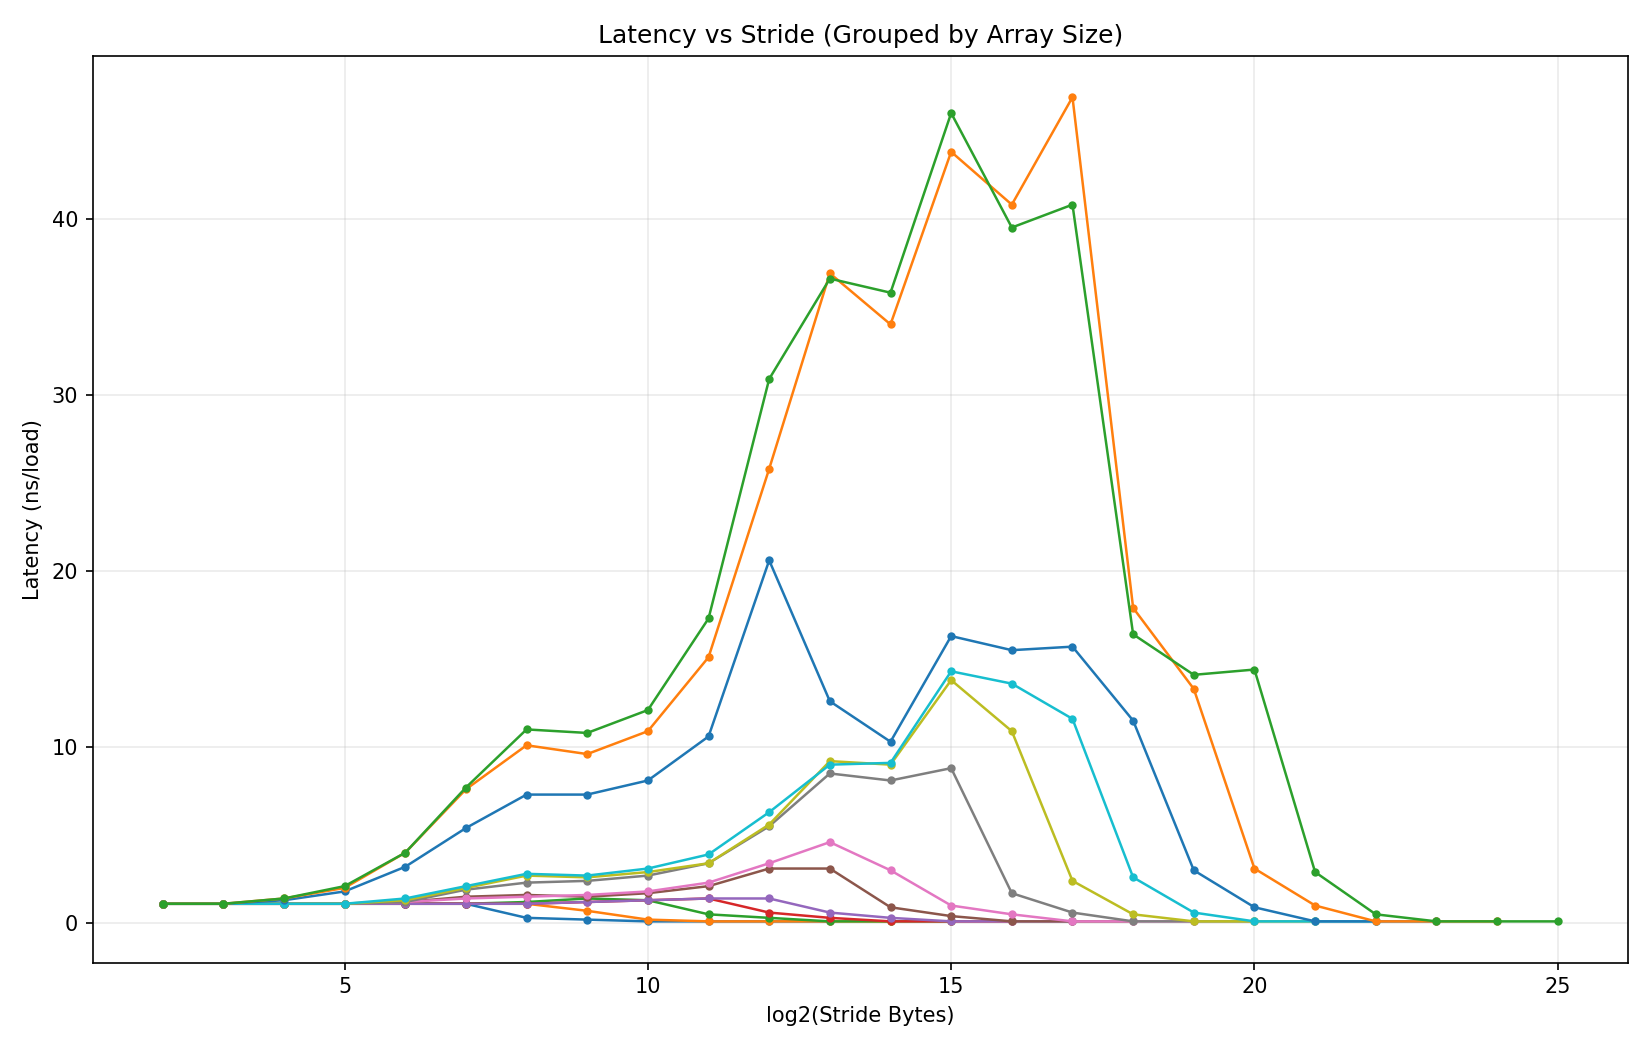
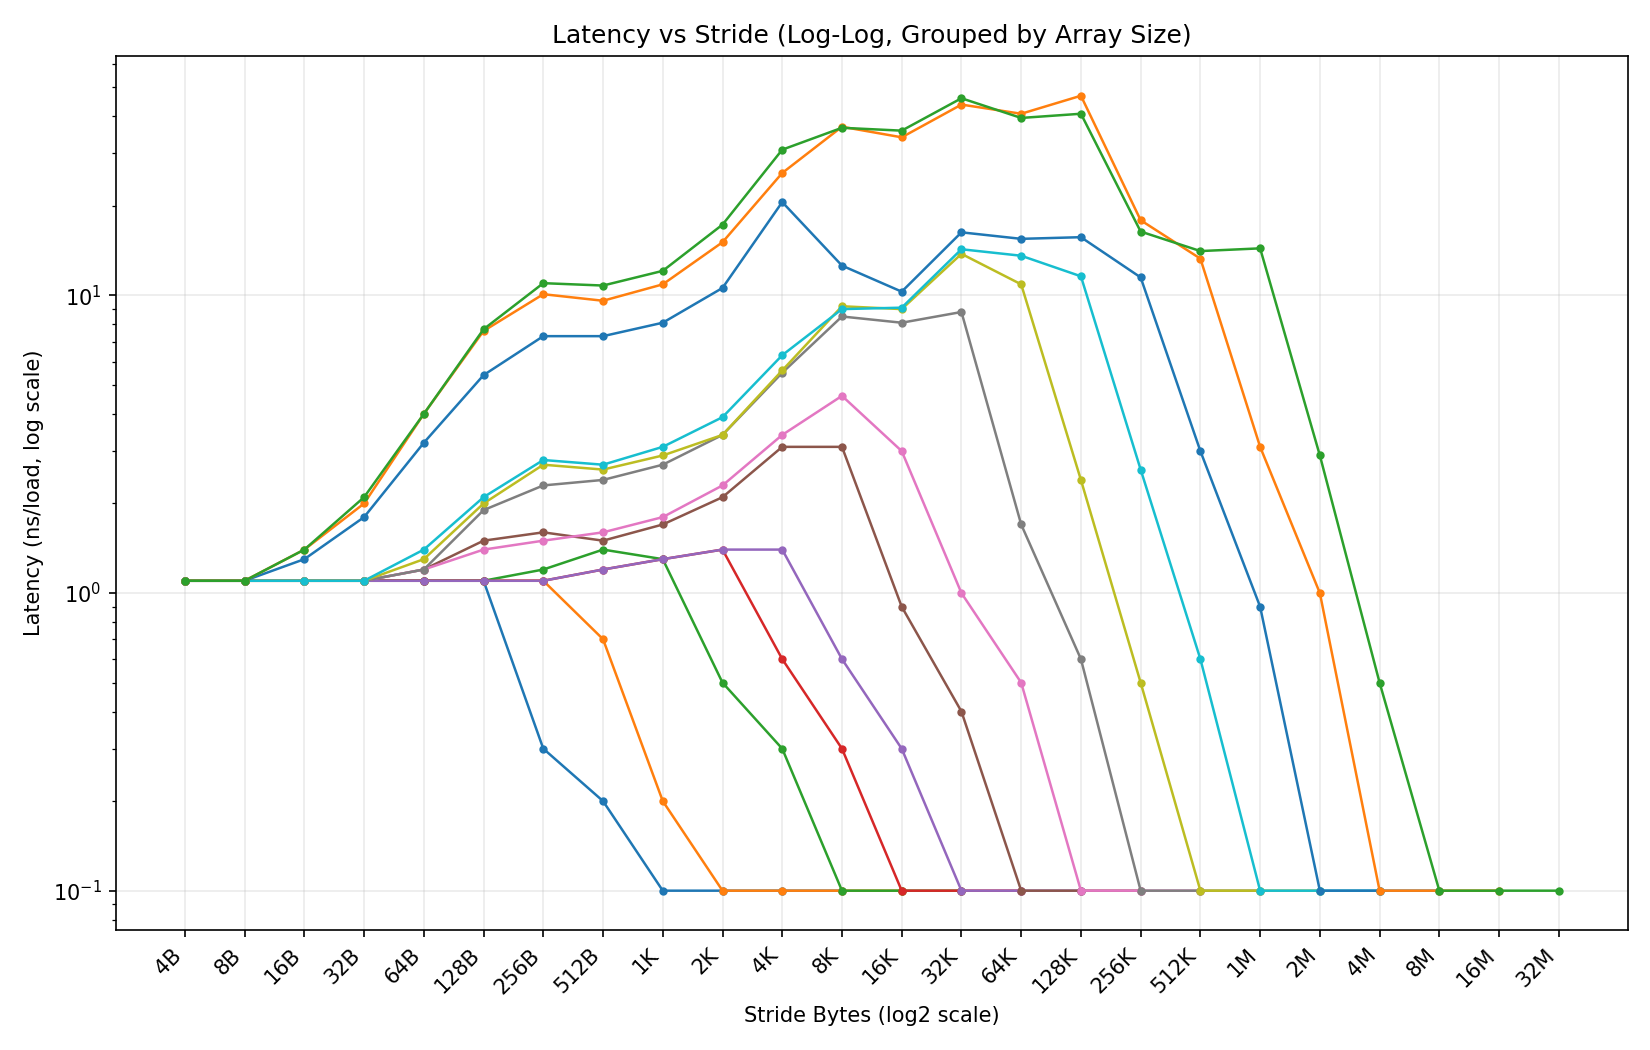
fix: 數字看起來是對了 但樣子不對 題目要求兩軸都用 log，你的 Y 軸應該不是 log

diff --git a/ComputerArchitecture/plot_memory_benchmark.py b/ComputerArchitecture/plot_memory_benchmark.py
@@ -122,14 +122,20 @@ def plot_heatmap(stride_bytes, array_bytes, matrix, out_path: Path):
 def plot_lines_by_array_size(stride_bytes, array_labels, matrix, out_path: Path):
     fig, ax = plt.subplots(figsize=(11, 7))
 
-    x = [safe_log2(b) for b in stride_bytes]
+    x = stride_bytes
 
     for row_label, y in zip(array_labels, matrix):
         ax.plot(x, y, marker="o", linewidth=1.2, markersize=3, label=row_label)
 
-    ax.set_xlabel("log2(Stride Bytes)")
-    ax.set_ylabel("Latency (ns/load)")
-    ax.set_title("Latency vs Stride (Grouped by Array Size)")
+    ax.set_xscale("log", base=2)
+    ax.set_yscale("log")
+    ax.set_xlabel("Stride Bytes (log2 scale)")
+    ax.set_ylabel("Latency (ns/load, log scale)")
+    ax.set_title("Latency vs Stride (Log-Log, Grouped by Array Size)")
+
+    # Keep readable tick labels on x-axis while using log2 spacing.
+    ax.set_xticks(stride_bytes)
+    ax.set_xticklabels([bytes_to_label(b) for b in stride_bytes], rotation=45, ha="right")
 
     # Avoid unreadable legends with too many lines.
     if len(array_labels) <= 12:
